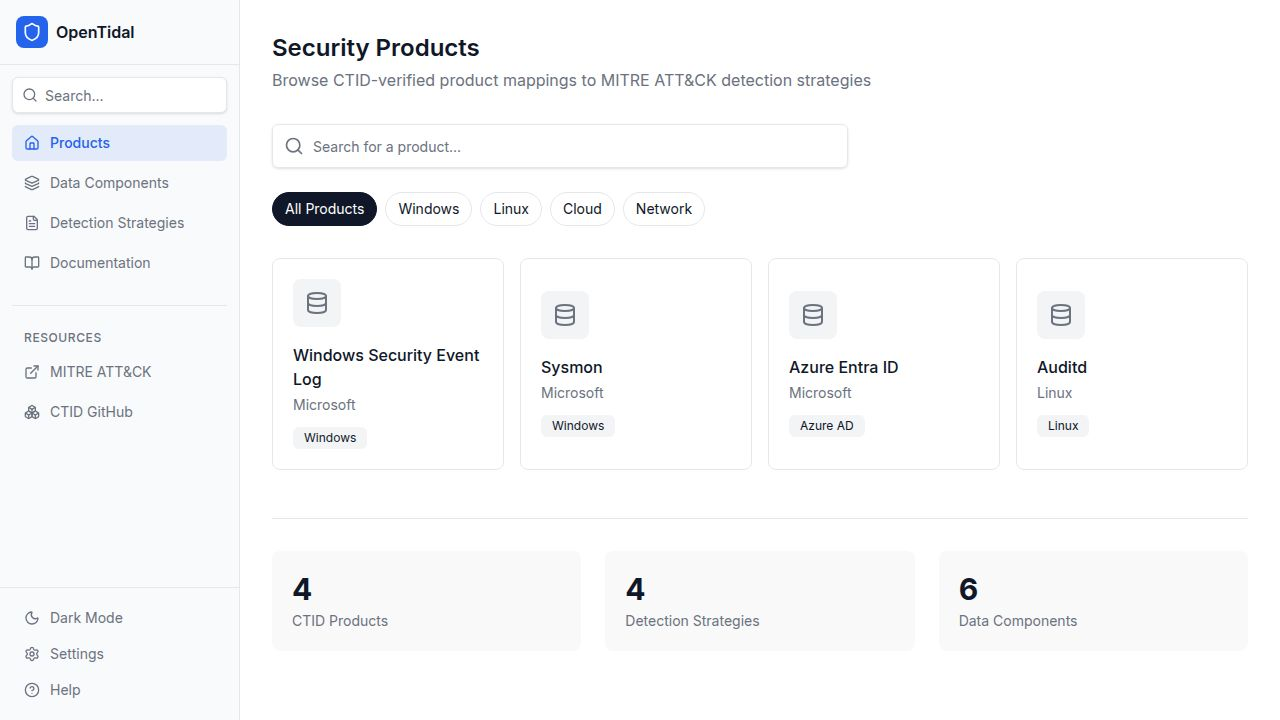
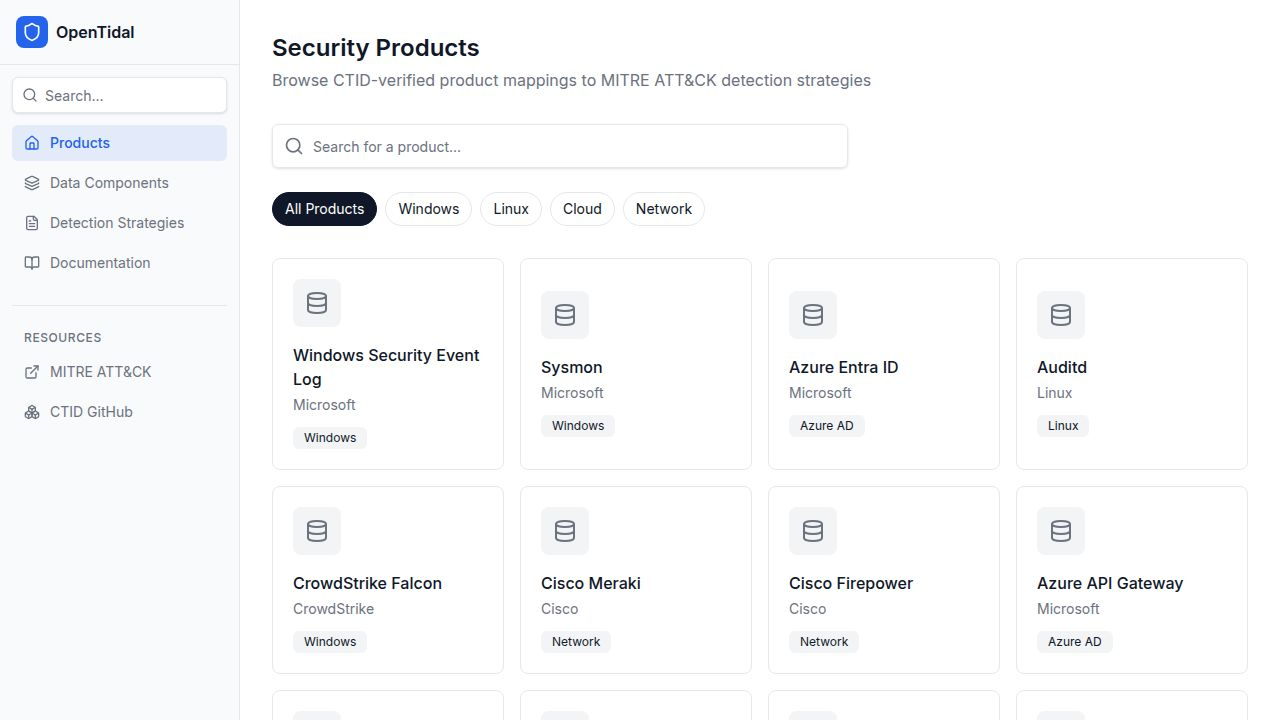
Add detailed mappings for vendor products and their data components
Update `mitreData.ts` to include comprehensive entries for various vendor products, mapping them to their respective data components to enhance detection strategy relevance.

Replit-Commit-Author: Agent
Replit-Commit-Session-Id: 52ac75b4-85d7-4c09-b696-e70052cb2811
Replit-Commit-Checkpoint-Type: full_checkpoint
Replit-Commit-Event-Id: 5ac105ed-3efa-4d77-a7ae-73325783312c
Replit-Commit-Screenshot-Url: https://storage.googleapis.com/screenshot-production-us-central1/ca187bbf-bf5a-466d-b0ef-7ea9e9eff51a/52ac75b4-85d7-4c09-b696-e70052cb2811/EiJuSuK
Replit-Helium-Checkpoint-Created: true

diff --git a/client/src/lib/mitreData.ts b/client/src/lib/mitreData.ts
@@ -444,6 +444,196 @@ export const ctidProducts: Asset[] = [
     dataComponentIds: ['DC0001', 'DC0005', 'DC0017', 'DC0082'],
     source: 'ctid',
   },
+  {
+    id: 'CTID-CROWDSTRIKE-FALCON',
+    vendor: 'CrowdStrike',
+    productName: 'CrowdStrike Falcon',
+    deployment: 'Cloud/Agent',
+    description: 'Cloud-native endpoint protection platform providing process, network, and authentication telemetry.',
+    platforms: ['Windows'],
+    dataComponentIds: ['DC0005', 'DC0017', 'DC0082', 'DC0001', 'DC0024'],
+    source: 'ctid',
+  },
+  {
+    id: 'CTID-CISCO-MERAKI',
+    vendor: 'Cisco',
+    productName: 'Cisco Meraki',
+    deployment: 'Cloud-managed',
+    description: 'Cloud-managed networking providing network connection, firewall, and traffic flow telemetry.',
+    platforms: ['Network'],
+    dataComponentIds: ['DC0082'],
+    source: 'ctid',
+  },
+  {
+    id: 'CTID-CISCO-FIREPOWER',
+    vendor: 'Cisco',
+    productName: 'Cisco Firepower',
+    deployment: 'On-premises/Cloud',
+    description: 'Next-generation firewall and IPS providing network connection and intrusion detection telemetry.',
+    platforms: ['Network'],
+    dataComponentIds: ['DC0082'],
+    source: 'ctid',
+  },
+  {
+    id: 'CTID-AZURE-API-GATEWAY',
+    vendor: 'Microsoft',
+    productName: 'Azure API Gateway',
+    deployment: 'Cloud',
+    description: 'API management service providing API call logging, authentication events, and network connection telemetry.',
+    platforms: ['Azure AD'],
+    dataComponentIds: ['DC0082', 'DC0001'],
+    source: 'ctid',
+  },
+  {
+    id: 'CTID-PALO-ALTO-NGFW',
+    vendor: 'Palo Alto Networks',
+    productName: 'Palo Alto NGFW',
+    deployment: 'On-premises/Cloud',
+    description: 'Next-generation firewall providing network traffic analysis, threat prevention, and URL filtering logs.',
+    platforms: ['Network'],
+    dataComponentIds: ['DC0082'],
+    source: 'ctid',
+  },
+  {
+    id: 'CTID-OKTA',
+    vendor: 'Okta',
+    productName: 'Okta Identity',
+    deployment: 'Cloud',
+    description: 'Identity and access management platform providing authentication, SSO, and MFA event logging.',
+    platforms: ['Azure AD'],
+    dataComponentIds: ['DC0001'],
+    source: 'ctid',
+  },
+  {
+    id: 'CTID-SENTINEL-ONE',
+    vendor: 'SentinelOne',
+    productName: 'SentinelOne Singularity',
+    deployment: 'Cloud/Agent',
+    description: 'AI-powered endpoint protection providing process, file, network, and behavioral telemetry.',
+    platforms: ['Windows'],
+    dataComponentIds: ['DC0005', 'DC0017', 'DC0082', 'DC0024'],
+    source: 'ctid',
+  },
+  {
+    id: 'CTID-CARBON-BLACK',
+    vendor: 'VMware',
+    productName: 'Carbon Black EDR',
+    deployment: 'Cloud/On-premises',
+    description: 'Endpoint detection and response platform providing process, network, and file telemetry.',
+    platforms: ['Windows'],
+    dataComponentIds: ['DC0005', 'DC0017', 'DC0082'],
+    source: 'ctid',
+  },
+  {
+    id: 'CTID-DEFENDER-ENDPOINT',
+    vendor: 'Microsoft',
+    productName: 'Microsoft Defender for Endpoint',
+    deployment: 'Cloud/Agent',
+    description: 'Enterprise endpoint security platform providing process, network, file, and registry telemetry.',
+    platforms: ['Windows'],
+    dataComponentIds: ['DC0005', 'DC0017', 'DC0082', 'DC0001', 'DC0024', 'DC0036'],
+    source: 'ctid',
+  },
+  {
+    id: 'CTID-AWS-CLOUDTRAIL',
+    vendor: 'Amazon',
+    productName: 'AWS CloudTrail',
+    deployment: 'Cloud',
+    description: 'AWS service providing API call logging, user activity, and resource access telemetry.',
+    platforms: ['Azure AD'],
+    dataComponentIds: ['DC0001', 'DC0082'],
+    source: 'ctid',
+  },
+  {
+    id: 'CTID-AWS-VPC-FLOW',
+    vendor: 'Amazon',
+    productName: 'AWS VPC Flow Logs',
+    deployment: 'Cloud',
+    description: 'Network flow logs capturing IP traffic going to and from network interfaces in AWS VPCs.',
+    platforms: ['Network'],
+    dataComponentIds: ['DC0082'],
+    source: 'ctid',
+  },
+  {
+    id: 'CTID-SPLUNK-UF',
+    vendor: 'Splunk',
+    productName: 'Splunk Universal Forwarder',
+    deployment: 'Agent',
+    description: 'Log collection agent for forwarding Windows, Linux, and application logs to Splunk.',
+    platforms: ['Windows'],
+    dataComponentIds: ['DC0005', 'DC0017', 'DC0001', 'DC0024'],
+    source: 'ctid',
+  },
+  {
+    id: 'CTID-ZEEK',
+    vendor: 'Zeek',
+    productName: 'Zeek (Bro)',
+    deployment: 'On-premises',
+    description: 'Open-source network analysis framework providing detailed connection, DNS, HTTP, and SSL logs.',
+    platforms: ['Network'],
+    dataComponentIds: ['DC0082'],
+    source: 'ctid',
+  },
+  {
+    id: 'CTID-SURICATA',
+    vendor: 'OISF',
+    productName: 'Suricata',
+    deployment: 'On-premises',
+    description: 'Open-source IDS/IPS providing network intrusion detection and network flow telemetry.',
+    platforms: ['Network'],
+    dataComponentIds: ['DC0082'],
+    source: 'ctid',
+  },
+  {
+    id: 'CTID-OSQUERY',
+    vendor: 'osquery',
+    productName: 'osquery',
+    deployment: 'Agent',
+    description: 'Cross-platform endpoint visibility tool providing process, network, and system state telemetry.',
+    platforms: ['Linux'],
+    dataComponentIds: ['DC0005', 'DC0017', 'DC0082', 'DC0001'],
+    source: 'ctid',
+  },
+  {
+    id: 'CTID-ELASTIC-AGENT',
+    vendor: 'Elastic',
+    productName: 'Elastic Agent',
+    deployment: 'Agent',
+    description: 'Unified agent for Elastic Security providing endpoint, network, and log telemetry.',
+    platforms: ['Windows'],
+    dataComponentIds: ['DC0005', 'DC0017', 'DC0082', 'DC0001', 'DC0024'],
+    source: 'ctid',
+  },
+  {
+    id: 'CTID-MACOS-ESF',
+    vendor: 'Apple',
+    productName: 'macOS Endpoint Security Framework',
+    deployment: 'On-premises',
+    description: 'Native macOS security framework providing process, file, and network event telemetry.',
+    platforms: ['macOS'],
+    dataComponentIds: ['DC0005', 'DC0017', 'DC0082'],
+    source: 'ctid',
+  },
+  {
+    id: 'CTID-FORTINET-FORTIGATE',
+    vendor: 'Fortinet',
+    productName: 'FortiGate',
+    deployment: 'On-premises/Cloud',
+    description: 'Next-generation firewall providing network security, VPN, and traffic inspection telemetry.',
+    platforms: ['Network'],
+    dataComponentIds: ['DC0082', 'DC0001'],
+    source: 'ctid',
+  },
+  {
+    id: 'CTID-ZSCALER',
+    vendor: 'Zscaler',
+    productName: 'Zscaler Internet Access',
+    deployment: 'Cloud',
+    description: 'Cloud security platform providing web traffic, DNS, and network connection telemetry.',
+    platforms: ['Network'],
+    dataComponentIds: ['DC0082'],
+    source: 'ctid',
+  },
 ];
 
 export function searchProducts(query: string): Asset[] {
